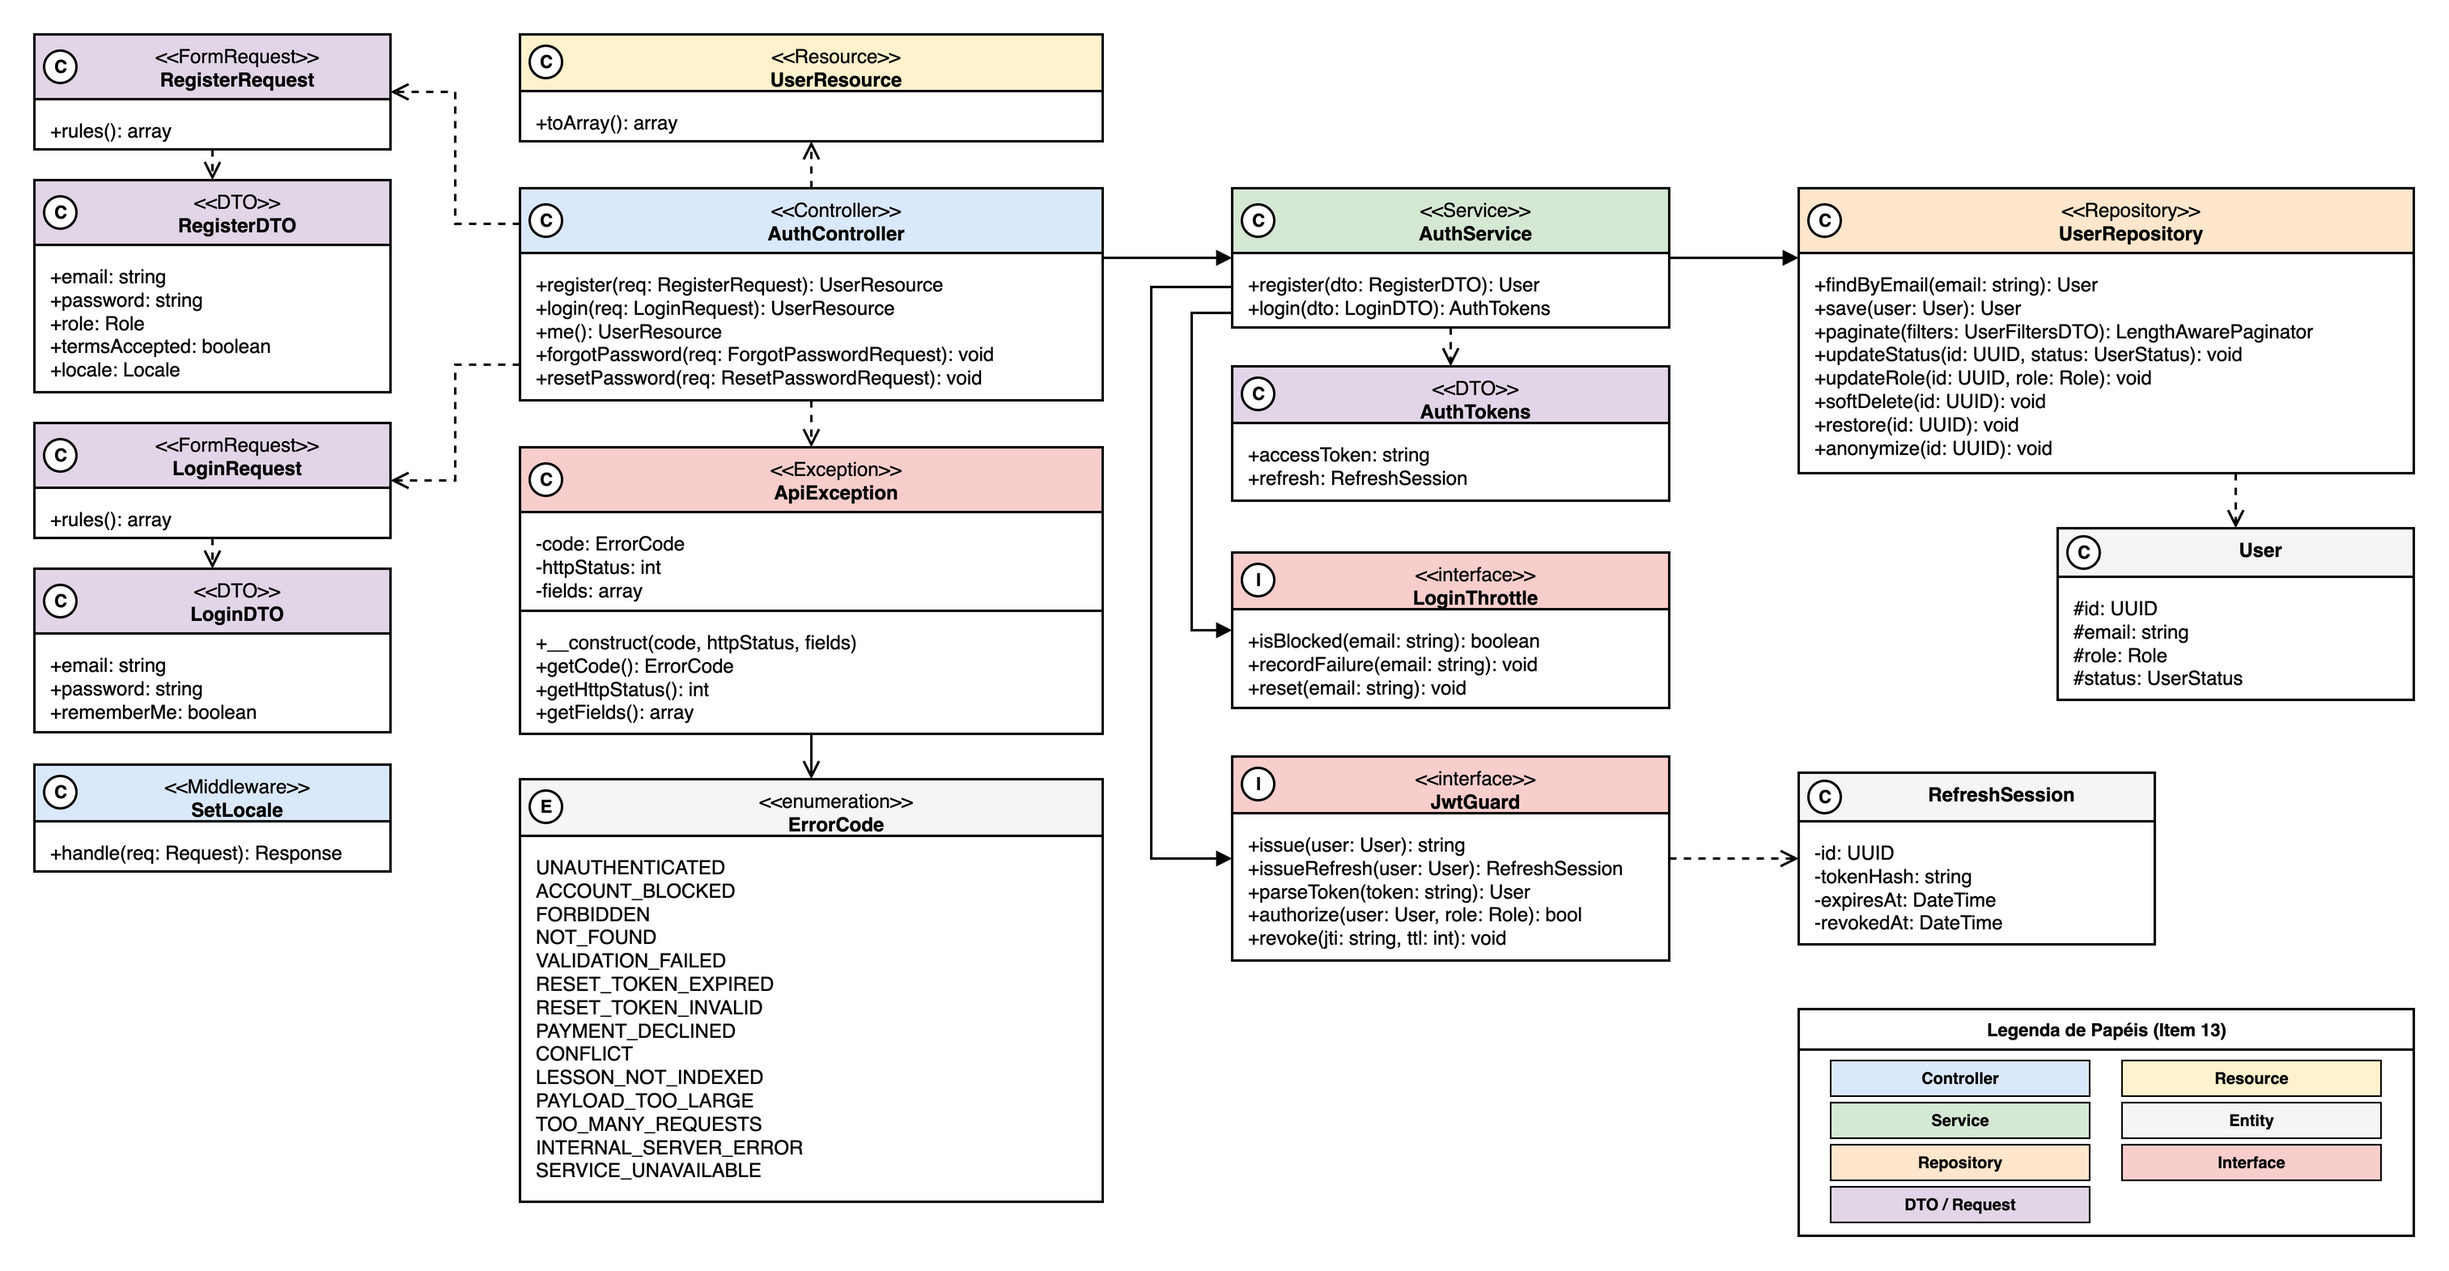
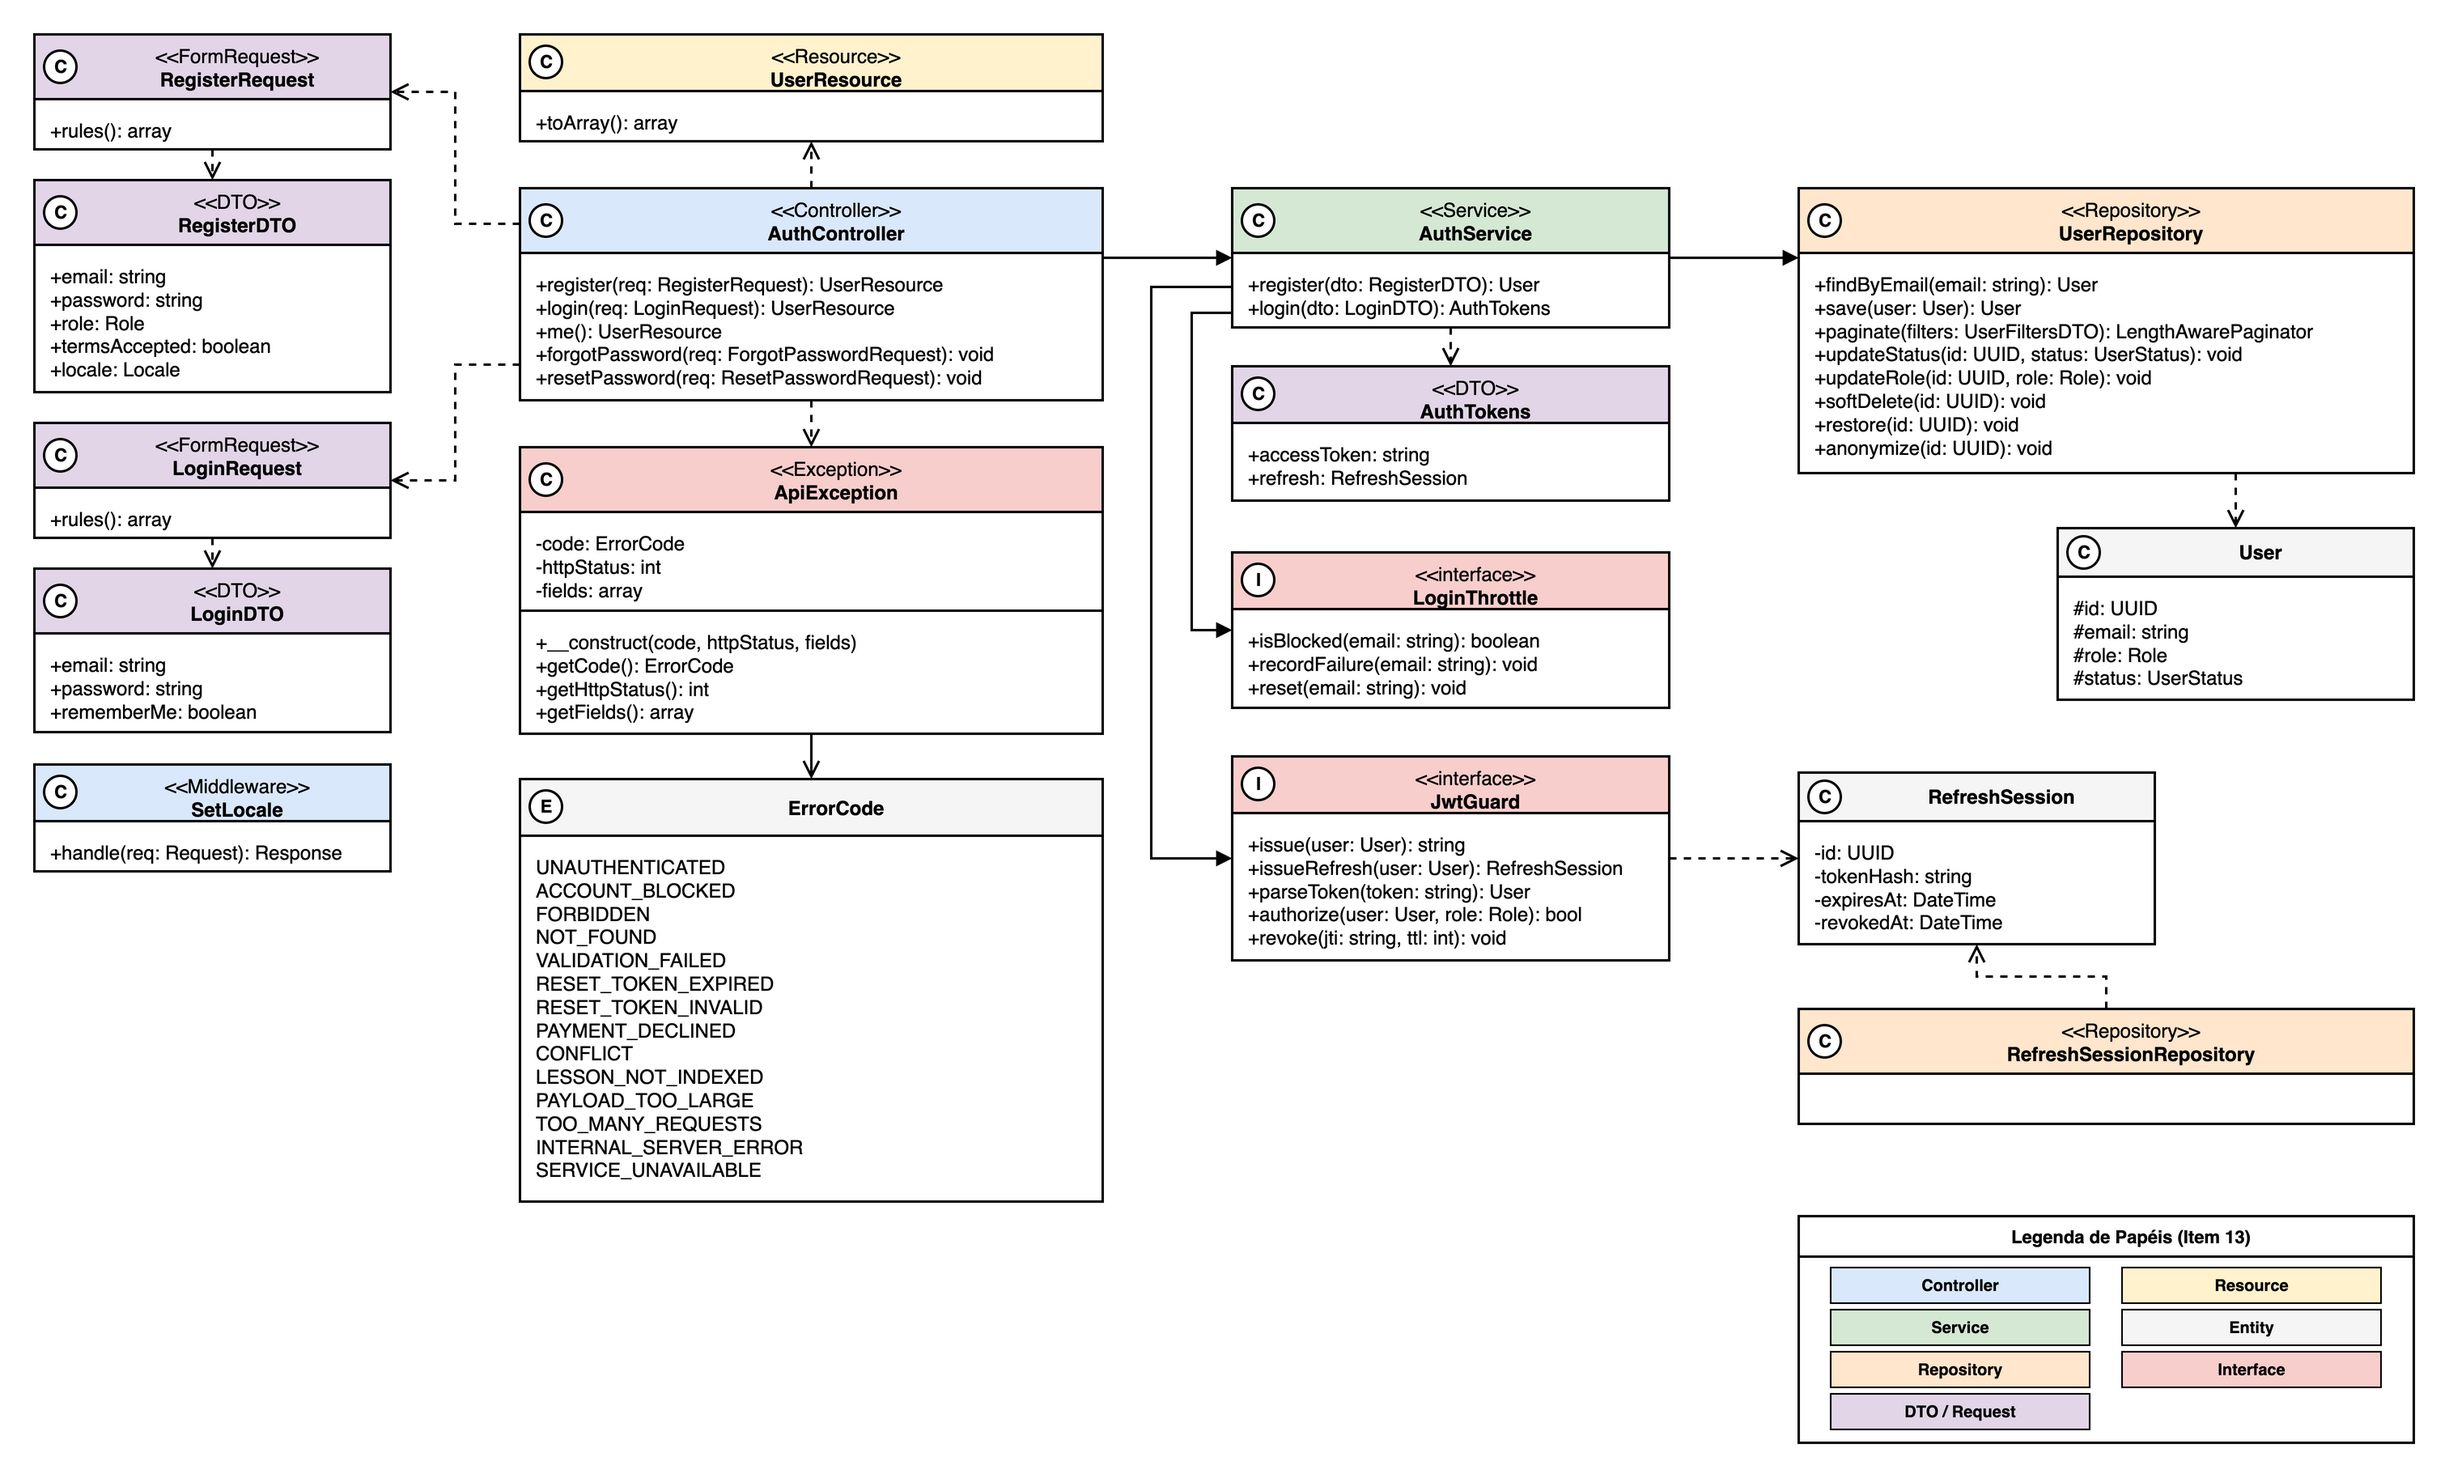
docs(classes): add profile and refresh repository methods to area A
createEmpty is needed because promoting a user to instructor must create
the empty InstructorProfile row (TC236), and the profile diagram did not
show it. revokeAllByUser is needed because blocking, changing the role
and deleting an account must end the refresh sessions (D-TC243, UC008,
UC018); it had no repository in the diagrams.

The new RefreshSessionRepository sits right below its entity in the login
diagram, and the legend moved down to keep the arrow clear. Both PNGs
are re-exported from their .drawio sources after the type icons were
regenerated with the corrected typeicon.py from area D.

(cherry picked from commit daa9a21d327e4aa18b8e5e6ebcaf8c2ac8215e45)

Changed region(s): [[0.0, 0.0, 0.6834, 0.9363], [0.7145, 0.1248, 0.9941, 0.749], [0.7455, 0.7803, 0.9941, 0.9987]]

diff --git a/especificacao/13-diagrama-de-classes/area-a.md b/especificacao/13-diagrama-de-classes/area-a.md
@@ -19,11 +19,13 @@ Na perspectiva de implementação, apresentada em três diagramas (cadastro e lo
 
 3. **Perfil e administração de usuários**:
    - `ProfileController` e `ProfileService` atendem à consulta e atualização cadastral, atualização de dados de instrutor (`InstructorProfileDTO`), troca de senha com validação de senha atual, upload de foto via `PhotoStorage` (armazenamento de imagem no Cloudflare R2 com URL pública e CDN) e persistência de endereços (`AddressRepository`).
+   - `InstructorProfileRepository.createEmpty(userId: UUID): InstructorProfile` cria a linha vazia de perfil de instrutor no momento da promoção (TC236), além do `save(profile: InstructorProfile)`.
    - O `UserRepository` fornece, além de `findByEmail(email)` e `save(user)`, os métodos de gestão administrativa do UC008 e UC018:
      - `paginate(filters: UserFiltersDTO): LengthAwarePaginator`: listagem paginada (`perPage` de 1 a 100) com filtros de busca textual, perfil e status.
      - `updateStatus(id: UUID, status: UserStatus): void`: bloqueio e desbloqueio de contas.
      - `updateRole(id: UUID, role: Role): void`: alteração de papel, instanciando `InstructorProfile` caso o papel passe a instrutor.
      - `softDelete(id: UUID): void` e `restore(id: UUID): void`: exclusão lógica e reativação via `deleted_at` (ADR-0014).
+   - `RefreshSessionRepository.revokeAllByUser(userId: UUID): void` revoga todas as sessões de atualização do usuário, com `revokedAt` preenchido na entidade `RefreshSession`. É chamado no bloqueio, na troca de perfil e na exclusão lógica (D-TC243, UC008 e UC018), junto com a inclusão do `jti` na blocklist do Redis.
      - `anonymize(id: UUID): void`: anonimização irreversível dos dados pessoais para atendimento à LGPD (UC018 R-2), preenchendo `anonymized_at`, ofuscando nome/documento/telefone e liberando o email no índice único parcial.
 
 ![Classes negociais da Área A](../diagramas/13-classes-area-a-negocial.png)
